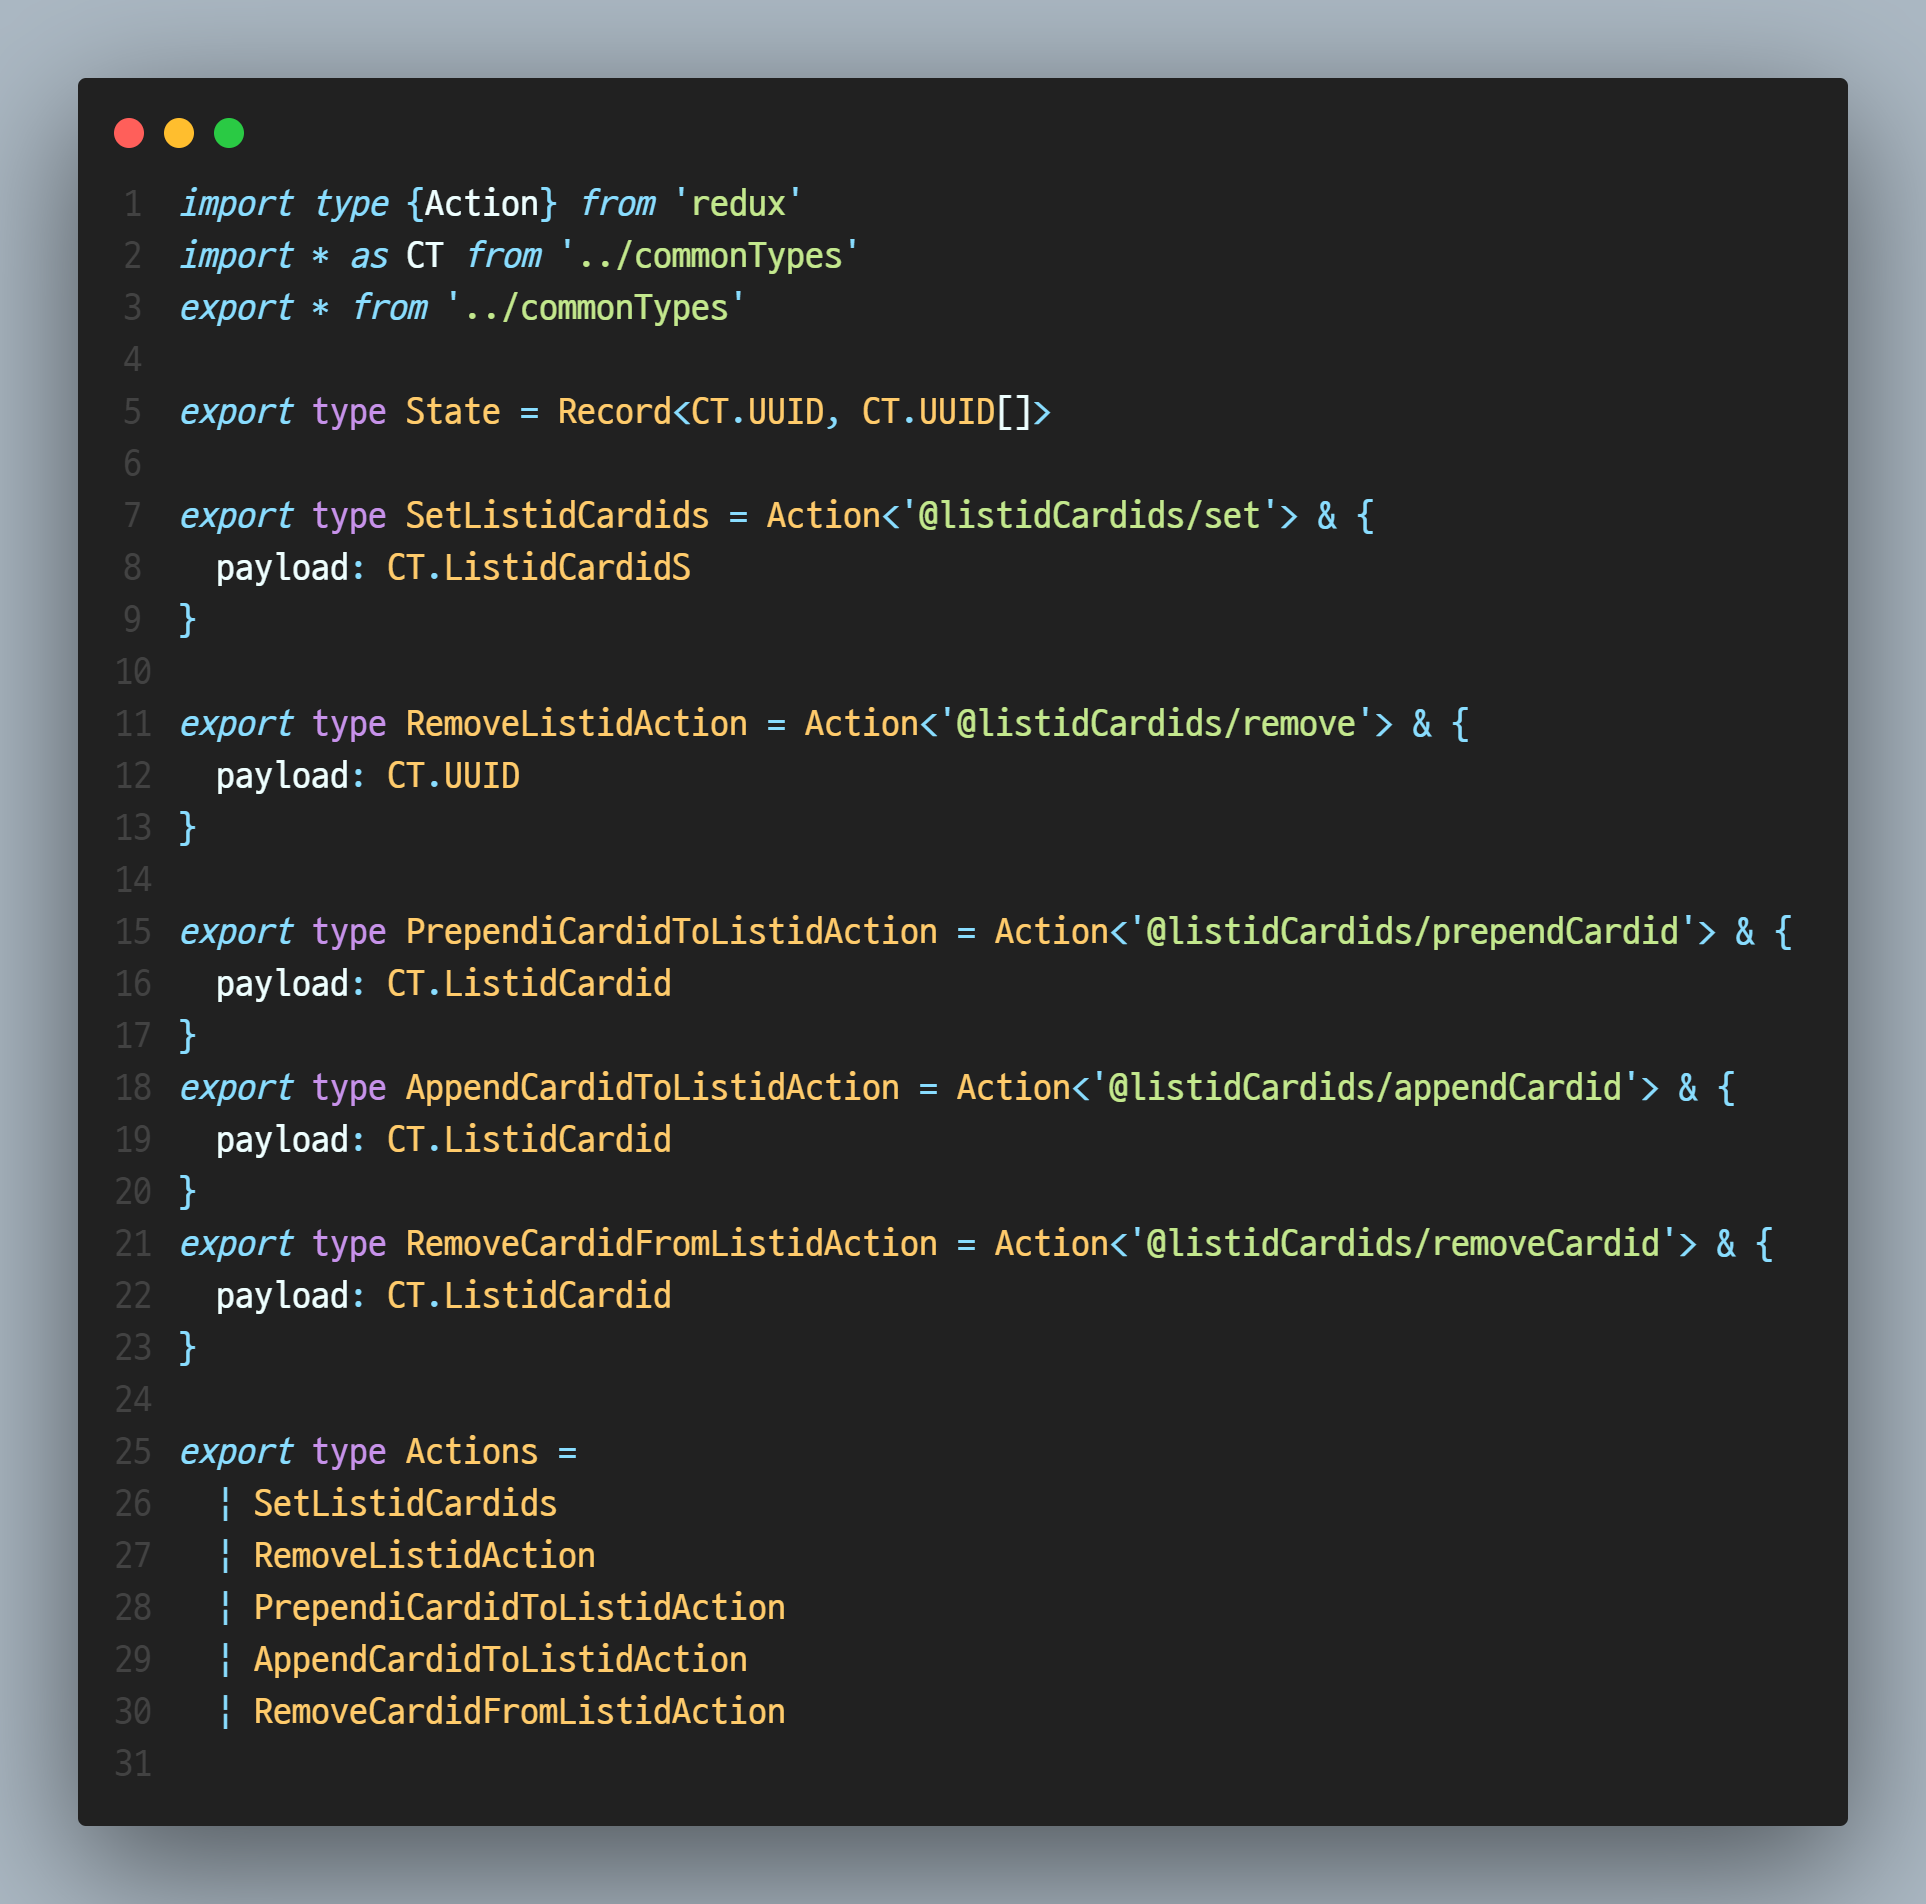
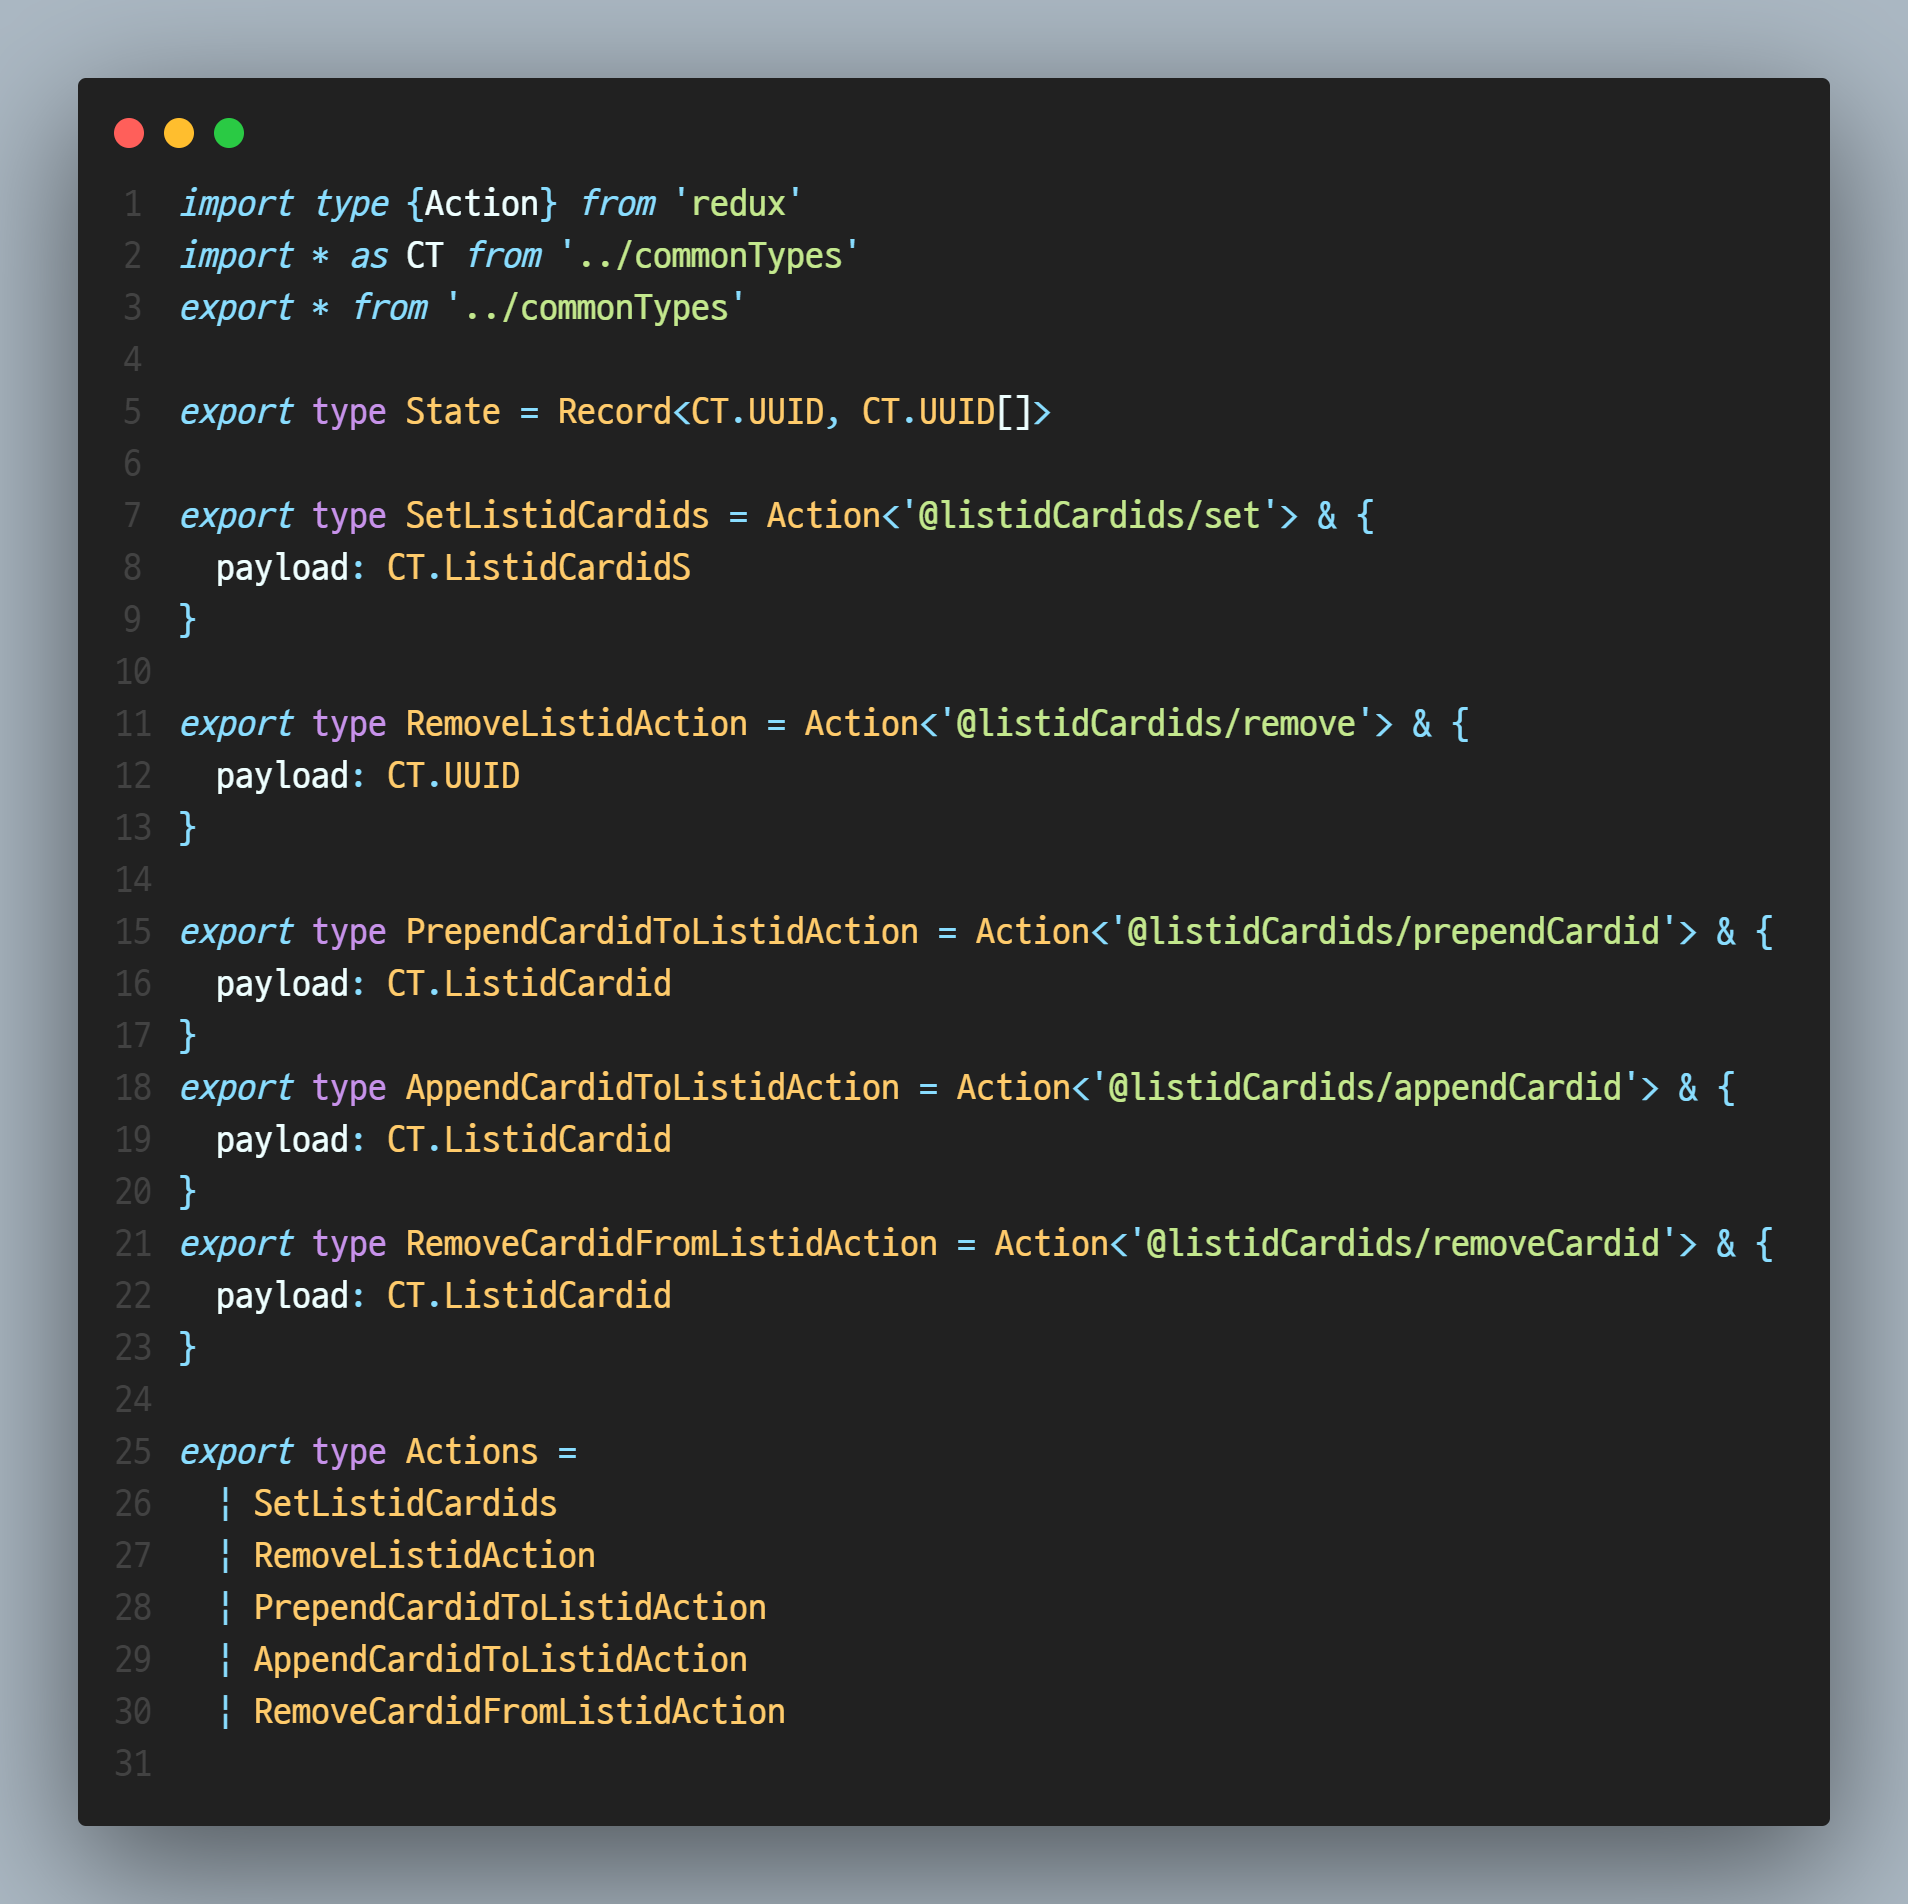
unfinished19 05.상태 관리와 리덕스 패키지_05-4.트렐로 따라 만들기

diff --git a/ch05/ch05_4/src/pages/BoardList/index.tsx b/ch05/ch05_4/src/pages/BoardList/index.tsx
@@ -1,21 +1,47 @@
 import type {FC} from 'react'
 import type {List} from '../../store/commonTypes'
+import {useMemo} from 'react'
+import {Div} from '../../components'
 import {Icon} from '../../theme/daisyui'
+import ListCard from '../ListCard'
+import {useCards} from '../../store/useCards'
 
 export type BoardListProps = {
   list: List
-  onRemoveList?: () => void
+  onRemoveList: () => void
 }
 const BoardList: FC<BoardListProps> = ({list, onRemoveList, ...props}) => {
+  const {cards, onPrependCard, onAppendCard, onRemoveCard} = useCards(list.uuid)
+
+  const children = useMemo(
+    () =>
+      cards.map((card, index) => (
+        <ListCard key={card.uuid} card={card} onRemove={onRemoveCard(card.uuid)} />
+      )),
+    [cards, onRemoveCard]
+  )
+
   return (
-    <div {...props} className="p-2 m-2 border border-gray-300 rounded-lg">
+    <Div
+      {...props}
+      className="p-2 m-2 border border-gray-300 rounded-lg"
+      minWidth="13rem">
       <div className="flex justify-between mb-2">
-        <p className="w-32 text-sm font-bold uderline line-clamp-1">{list.title}</p>
-        <div className="flex justify-between ml-2">
-          <Icon name="remove" className="btn-error btn-xs" onClick={onRemoveList} />
+        <p className="w-32 text-sm font-bold underline line-clamp-1">{list.title}</p>
+      </div>
+      <div className="flex justify-between ml-2">
+        <Icon name="remove" className="btn-error btn-xs" onClick={onRemoveList} />
+        <div className="flex">
+          <Icon name="post_add" className="btn-success btn-xs" onClick={onPrependCard} />
+          <Icon
+            name="playlist_add"
+            className="ml-2 btn-success btn-xs"
+            onClick={onAppendCard}
+          />
         </div>
       </div>
-    </div>
+      <div className="flex flex-col p-2">{children}</div>
+    </Div>
   )
 }
 export default BoardList

diff --git a/ch05/ch05_4/src/store/listidCardidOrders/reducers.ts b/ch05/ch05_4/src/store/listidCardidOrders/reducers.ts
@@ -4,7 +4,7 @@ const initialState: T.State = {}
 
 export const reducer = (state: T.State = initialState, action: T.Actions) => {
   switch (action.type) {
-    case '@listidCardids':
+    case '@listidCardids/set':
       return {...state, [action.payload.listid]: action.payload.cardids}
     case '@listidCardids/remove': {
       const newState = {...state}

diff --git a/ch05/ch05_4/src/store/useCards.ts b/ch05/ch05_4/src/store/useCards.ts
@@ -21,8 +21,8 @@ export const useCards = (listid: UUID) => {
     const card = D.makeRandomCard()
     dispatch(C.addCard(card))
 
-    dispatch(LC.appendCardidToListid({listid, car}))
-  })
+    dispatch(LC.appendCardidToListid({listid, cardid: card.uuid}))
+  }, [dispatch, listid])
 
   const onRemoveCard = useCallback(
     (uuid: UUID) => () => {

diff --git a/ch05/ch05_4/src/store/listidCardidOrders/types.ts b/ch05/ch05_4/src/store/listidCardidOrders/types.ts
@@ -25,6 +25,6 @@ export type RemoveCardidFromListidAction = Action<'@listidCardids/removeCardid'>
 export type Actions =
   | SetListidCardids
   | RemoveListidAction
-  | PrependiCardidToListidAction
+  | PrependCardidToListidAction
   | AppendCardidToListidAction
   | RemoveCardidFromListidAction
